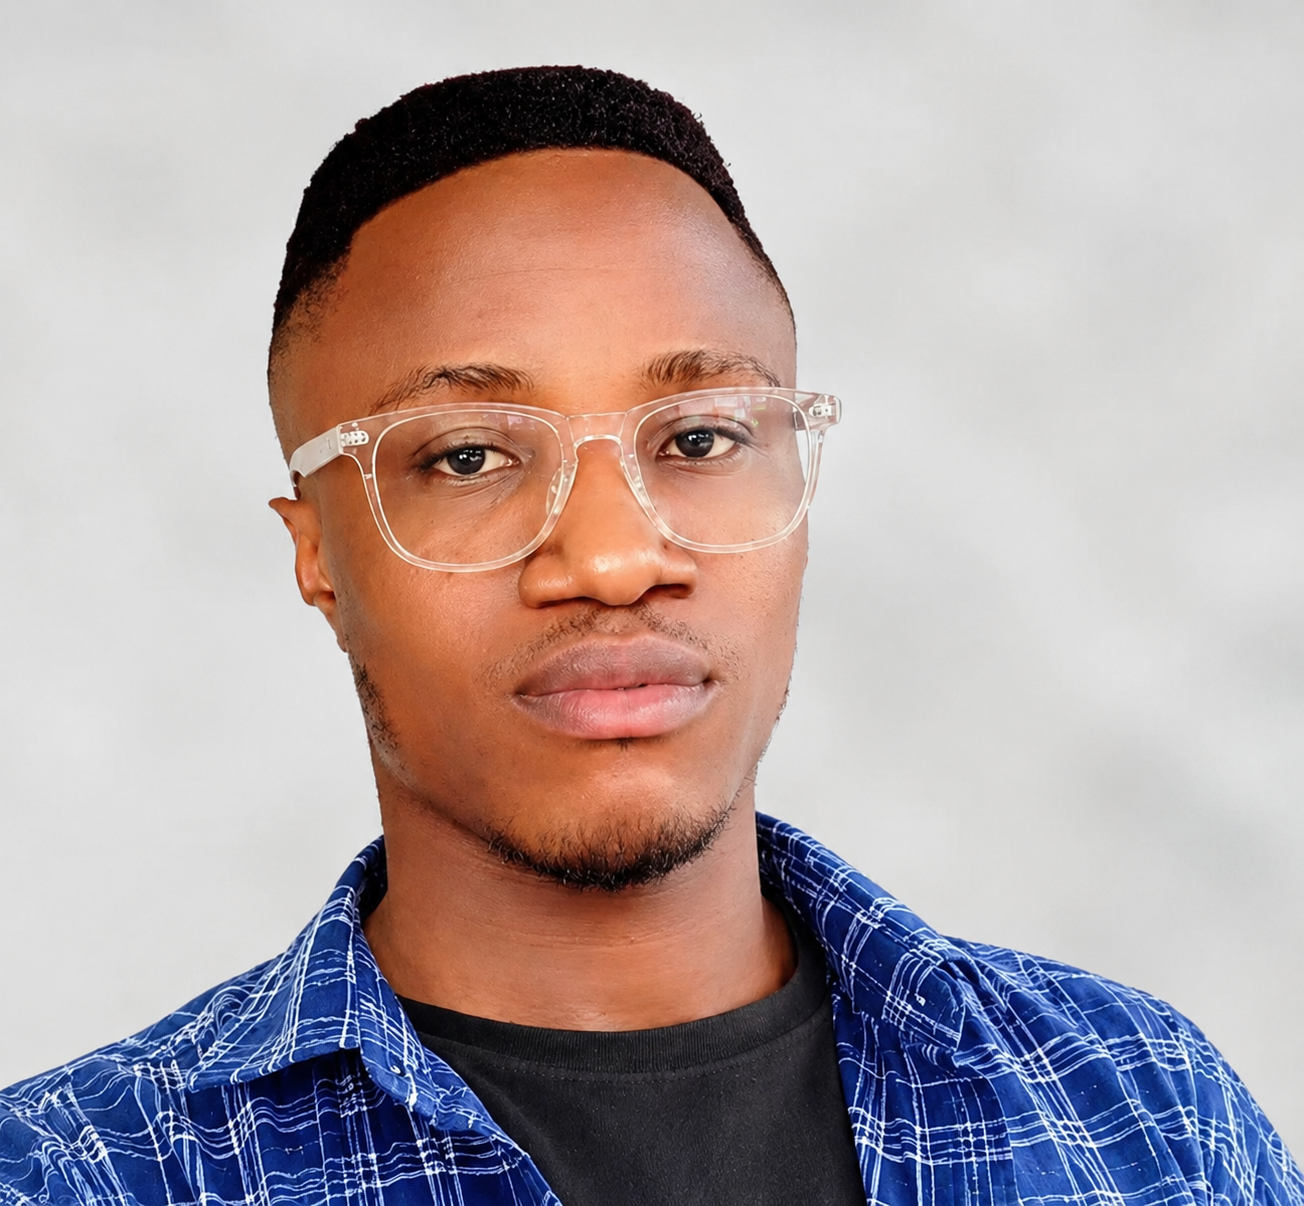
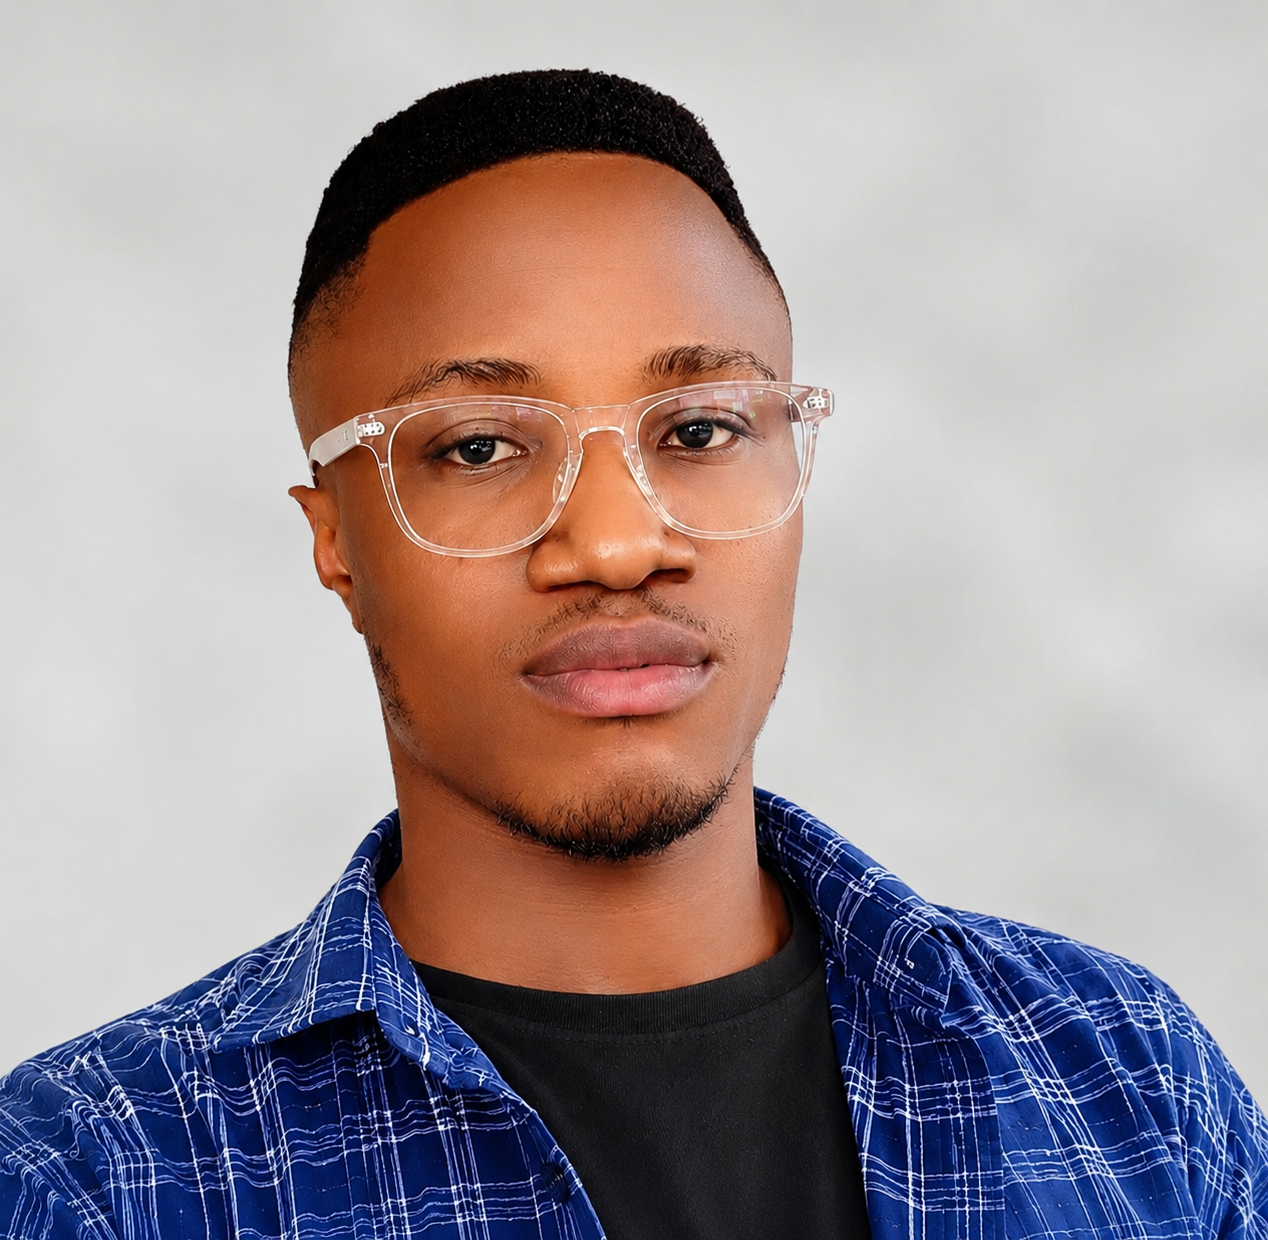
Update portfolio with redesigned expertise section, new screenshots, and new profile picture

diff --git a/components/hero.tsx b/components/hero.tsx
@@ -86,7 +86,7 @@ export default function Hero() {
             </div>
 
             {/* Profile image card */}
-            <div className="glass-surface-strong rounded-2xl border border-white/10 overflow-hidden shadow-2xl shadow-sky/10 relative w-full max-w-[260px] sm:max-w-xs lg:max-w-sm aspect-[3/4]">
+            <div className="glass-surface-strong rounded-2xl border border-white/10 overflow-hidden shadow-2xl shadow-sky/10 relative w-full max-w-sm aspect-[3/4]">
               <Image
                 src="/hero-image.png"
                 alt="Leo Emmanuel"
